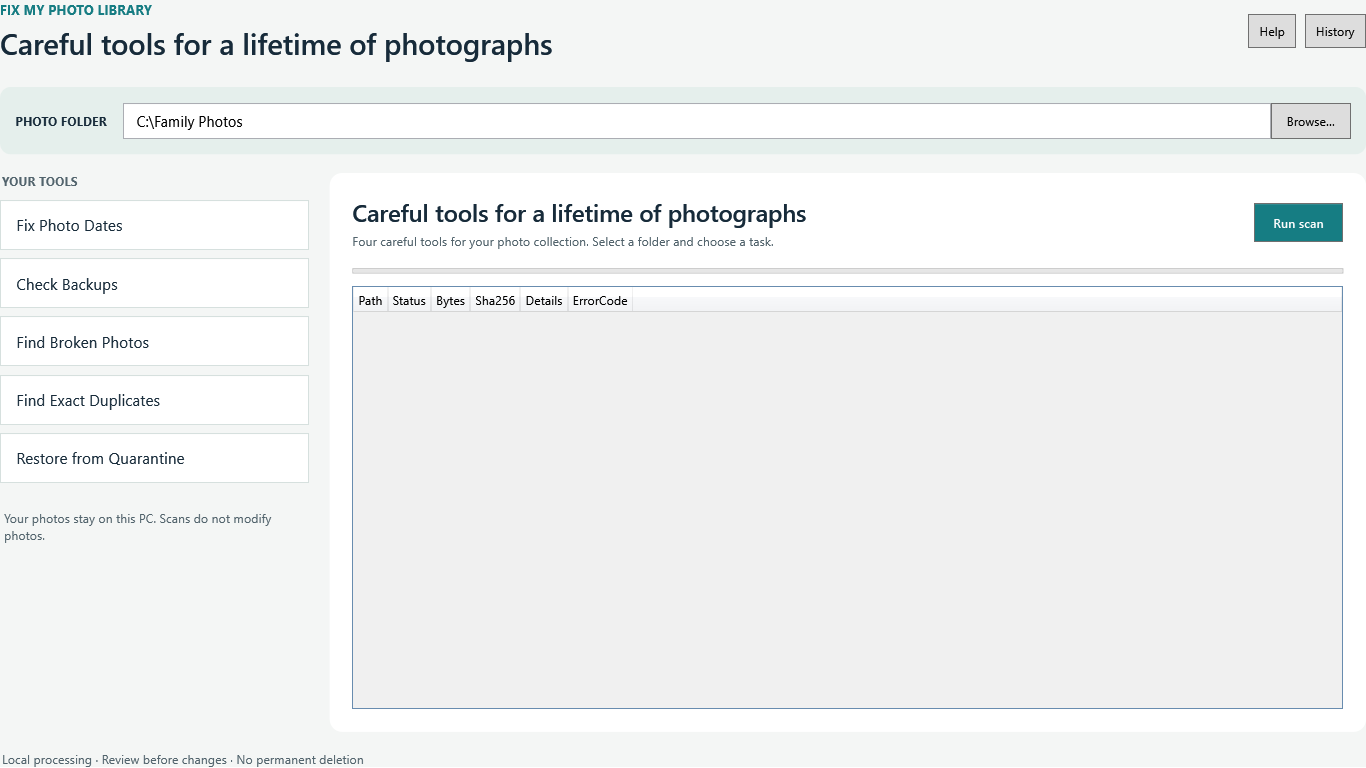
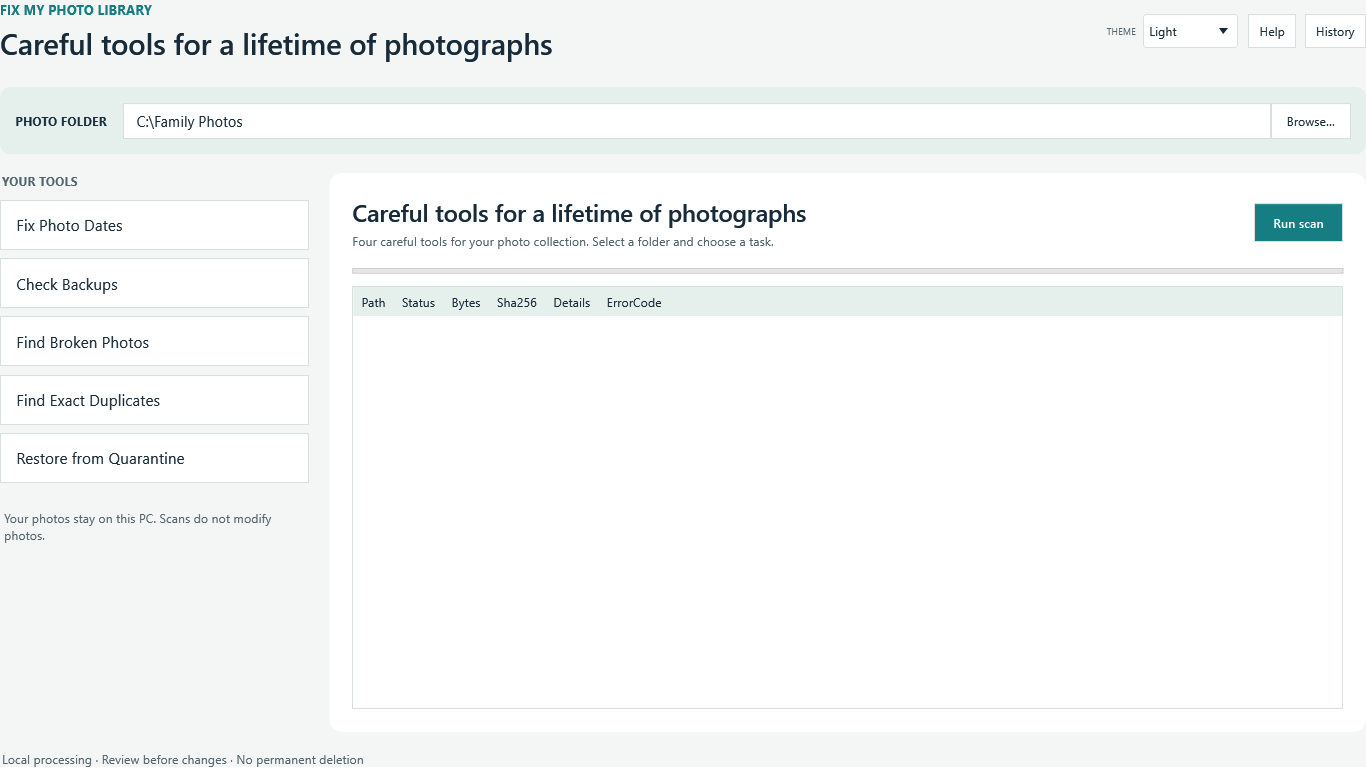
Publish Fix My Photo Library website

diff --git a/privacy/index.html b/privacy/index.html
@@ -2,20 +2,22 @@
 <html lang="en-GB">
 <head>
   <meta charset="utf-8"><meta name="viewport" content="width=device-width, initial-scale=1"><meta name="color-scheme" content="light"><meta name="theme-color" content="#f3f0e8">
-  <title>Local Processing & Privacy Summary | Fix My Photo Library</title>
-  <meta name="description" content="A plain-language summary of what Fix My Photo Library reads, what stays on your Windows PC, and where reports and recovery journals are stored.">
+  <title>App Privacy Notice | Fix My Photo Library</title>
+  <meta name="description" content="Read what Fix My Photo Library reads and stores locally, how photo paths and action logs are used, and how to clear history or exported reports.">
   <link rel="canonical" href="https://nikatsam.github.io/WINAPP_Fix_My_Photo_Library_Website/privacy/">
   <link rel="icon" type="image/svg+xml" href="../assets/favicon.svg"><link rel="stylesheet" href="../assets/site.css">
-  <script type="application/ld+json">{"@context":"https://schema.org","@type":"BreadcrumbList","itemListElement":[{"@type":"ListItem","position":1,"name":"Home","item":"https://nikatsam.github.io/WINAPP_Fix_My_Photo_Library_Website/"},{"@type":"ListItem","position":2,"name":"Privacy summary","item":"https://nikatsam.github.io/WINAPP_Fix_My_Photo_Library_Website/privacy/"}]}</script>
+  <script type="application/ld+json">{"@context":"https://schema.org","@type":"BreadcrumbList","itemListElement":[{"@type":"ListItem","position":1,"name":"Home","item":"https://nikatsam.github.io/WINAPP_Fix_My_Photo_Library_Website/"},{"@type":"ListItem","position":2,"name":"App privacy notice","item":"https://nikatsam.github.io/WINAPP_Fix_My_Photo_Library_Website/privacy/"}]}</script>
 </head>
 <body><a class="skip-link" href="#main">Skip to content</a><header class="site-header"><div class="header-inner"><a class="brand" href="../" aria-label="Fix My Photo Library home"><img src="../assets/favicon.svg" alt="" width="40" height="40"><span>FIX MY<br>PHOTO LIBRARY</span></a><button class="nav-toggle" type="button" aria-expanded="false" aria-controls="primary-nav"><span class="sr-only">Toggle navigation</span><span></span><span></span></button><nav class="primary-nav" id="primary-nav" aria-label="Main navigation"><a href="../#tools">The tools</a><a href="../#how-it-works">How it works</a><a href="../faq/">Photo library FAQs</a><a class="nav-cta" href="../#availability">Store listing: coming soon <span aria-hidden="true">↗</span></a></nav></div></header>
-<main id="main"><section class="page-hero section-wrap"><nav class="breadcrumbs" aria-label="Breadcrumb"><a href="../">Home</a><span aria-hidden="true">/</span><span aria-current="page">Privacy summary</span></nav><p class="eyebrow"><span class="eyebrow-dot"></span> Local-first by design</p><h1>Your photos stay<br><em>on your PC.</em></h1><p>This page is a plain-language product privacy summary for the current development build. It is not the final legal privacy notice; approved legal entity, contact and Store details will be added before release.</p></section>
-<section class="article-layout section-wrap"><article class="article-body"><p class="privacy-updated">Product behavior summary · 14 October 2026</p>
-  <h2 id="photo-data">What the app reads</h2><p>When you choose folders, the app enumerates supported photo files and reads file metadata or image bytes needed for the requested check. It uses SHA-256 for content comparisons and a Windows image decoder for supported-image checks. It may read EXIF capture-date fields to show a date preview.</p><p>Cloud/offline placeholders, inaccessible folders and reparse-point paths are not silently traversed. A scan that cannot finish is reported as incomplete.</p>
-  <h2 id="network">Network and uploads</h2><p>The app’s photo-processing code does not send photo content, filenames, hashes or reports to a remote service. It does not implement cloud storage or analytics. Windows, the Microsoft Store and other operating-system services may have their own network behavior unrelated to photo processing; those platform services are not controlled by this application.</p>
-  <h2 id="local-files">Reports, history and journals</h2><p>CSV and JSON reports are written only to a folder you select. The local job-history file stores summary counts and outcomes without photo paths. A separate local action journal retains paths and hashes needed for undo, quarantine recovery and restore. Clearing job history does not erase an action journal or a report you exported.</p><p>Date-corrected copies and quarantine files go to folders you select. Source images are not silently overwritten or permanently deleted by the duplicate workflow.</p>
-  <h2 id="control">Your choices</h2><p>You select the folders, review proposed changes and confirm copy or quarantine operations. You can clear the summary history in the app. To remove reports or action journals, use Windows File Explorer and the documented app-data location after the final release instructions are published.</p>
-  <h2 id="release-policy">Before the Store release</h2><p>This summary must be reviewed by the product owner and aligned with the final publisher identity, support contact, package behavior and Microsoft Store listing. The full legal policy and contact details will be published before the app is offered for purchase.</p>
-</article><aside class="article-aside"><h2>Privacy topics</h2><nav aria-label="Privacy sections"><a href="#photo-data">Photo data</a><a href="#network">Network behavior</a><a href="#local-files">Local reports</a><a href="#control">User control</a><a href="#release-policy">Release policy</a></nav></aside></section></main>
-<footer class="site-footer"><div class="footer-main section-wrap"><a class="brand brand-footer" href="../"><img src="../assets/favicon.svg" alt="" width="36" height="36"><span>FIX MY<br>PHOTO LIBRARY</span></a><p>Designed to keep photo work local and reviewable.</p><nav aria-label="Footer"><a href="../faq/">FAQs</a><a href="../guides/">Guides</a><a href="../">Home</a></nav></div><div class="footer-bottom section-wrap"><span>© 2026 Fix My Photo Library</span><span>Development-build summary; owner legal review pending.</span><a href="#main">Back to top ↑</a></div></footer><script src="../assets/site.js" defer></script>
+ <main id="main"><section class="page-hero section-wrap"><nav class="breadcrumbs" aria-label="Breadcrumb"><a href="../">Home</a><span aria-hidden="true">/</span><span aria-current="page">App privacy notice</span></nav><p class="eyebrow"><span class="eyebrow-dot"></span> Local-first by design</p><h1>Your photos stay<br><em>on your PC.</em></h1><p>This notice describes the current Windows app build: what it reads, what it writes locally, and how you can review or remove those local records. It applies to the app, not to Windows or Microsoft Store platform services.</p></section>
+<section class="article-layout section-wrap"><article class="article-body"><p class="privacy-updated">App privacy notice · reviewed 14 October 2026 · development release</p>
+  <h2 id="controller">Who is responsible</h2><p>Fix My Photo Library is currently a development product and is not yet offered for purchase. The legal publisher name and privacy contact must be completed by the product owner before a commercial Store release. No company identity or contact address is invented on this page.</p>
+  <h2 id="photo-data">Photo and file information processed</h2><p>When you choose folders, the app enumerates supported photo files and reads file content, file metadata and, for supported JPEGs, selected EXIF capture-date fields. SHA-256 hashes are calculated to compare byte-identical content and verify copies. Hashes, paths and timestamps are used to show scan results, complete safe copies, and support quarantine recovery or date-change undo.</p><p>Cloud/offline placeholders, inaccessible folders and reparse-point paths are not silently traversed. Files that change or cannot be read are reported as incomplete or unavailable rather than treated as verified.</p>
+  <h2 id="network">Uploads, analytics and advertising</h2><p>The app contains no photo-upload, cloud-storage, advertising or analytics feature. Photo content, filenames, hashes, reports and action details are not sent by the app to a developer-operated server. Internet access is not used for photo scanning or editing.</p><p>Windows and Microsoft Store may perform their own operating-system, licensing, account, purchase or update communications. Those are Microsoft platform services and are separate from the app’s local photo processing.</p>
+  <h2 id="local-files">Local history, activity log and settings</h2><p>Summary job history is stored in <code>%LOCALAPPDATA%\FixMyPhotoLibrary\history\jobs.jsonl</code>. It contains job IDs, tool names, timestamps, outcomes and counts without per-photo paths. The human-readable <code>activity.txt</code> in that folder records selected tools/folders, scan starts and outcomes, theme changes, report exports, and source-to-destination paths for copy, quarantine and restore actions. The app can open or export this TXT log.</p><p>The action journal is stored in <code>%LOCALAPPDATA%\FixMyPhotoLibrary\journal\actions.jsonl</code> and retains paths, hashes and old/new timestamps required to recover quarantined files or conditionally undo date changes. The selected appearance preference (System, Light or Dark) is stored locally in <code>%LOCALAPPDATA%\FixMyPhotoLibrary\settings.txt</code>.</p><p>CSV and JSON reports are written only to a destination you choose. Corrected-date copies and quarantine files are also written only to folders you select. They are not automatically uploaded.</p>
+  <h2 id="retention">Your controls and retention</h2><p>You choose folders, confirm mutating actions and can inspect or export the full TXT activity log from the app’s History screen. Clearing the job-summary list does not delete the activity log, action journal, quarantine manifest or reports. Those files can be removed by you in File Explorer after any recovery need has ended. You can set the app appearance to System, Light or Dark; deleting the setting returns it to System.</p>
+  <h2 id="website">This website</h2><p>The public product website is a static GitHub Pages site. It has no forms, analytics scripts, advertising pixels or third-party font/CDN requests. GitHub operates the hosting platform and may process standard web request logs under its own terms. This is separate from the Windows application’s local photo processing.</p>
+  <h2 id="contact">Contact and policy updates</h2><p>Before the Store listing is submitted, the owner must insert the legal publisher identity, privacy contact and any required regional disclosures, then review this notice against the final signed package and Store data declarations. The date and version of material changes will be updated here.</p>
+</article><aside class="article-aside"><h2>Privacy topics</h2><nav aria-label="Privacy sections"><a href="#controller">Data controller</a><a href="#photo-data">Photo data</a><a href="#network">Network behavior</a><a href="#local-files">Logs and settings</a><a href="#retention">User controls</a><a href="#website">Website</a><a href="#contact">Contact</a></nav></aside></section></main>
+<footer class="site-footer"><div class="footer-main section-wrap"><a class="brand brand-footer" href="../"><img src="../assets/favicon.svg" alt="" width="36" height="36"><span>FIX MY<br>PHOTO LIBRARY</span></a><p>Designed to keep photo work local and reviewable.</p><nav aria-label="Footer"><a href="../faq/">FAQs</a><a href="../guides/">Guides</a><a href="../">Home</a></nav></div><div class="footer-bottom section-wrap"><span>© 2026 Fix My Photo Library</span><span>Legal publisher contact details require owner completion before Store release.</span><a href="#main">Back to top ↑</a></div></footer><script src="../assets/site.js" defer></script>
 </body></html>

diff --git a/faq/index.html b/faq/index.html
@@ -16,7 +16,9 @@
       {"@type":"Question","name":"Can Windows tell whether a JPEG or PNG is damaged?","acceptedAnswer":{"@type":"Answer","text":"A decoder can identify some files it cannot fully read, but that does not reconstruct lost pixels. The app checks supported Windows codecs, validates PNG structure and distinguishes failed decoding, resource limits and unavailable codecs."}},
       {"@type":"Question","name":"Why is a photo's camera date different from its Windows file date?","acceptedAnswer":{"@type":"Answer","text":"EXIF capture time and Windows Created or Modified timestamps are different values. Camera dates can also lack a timezone offset. The app previews embedded evidence, does not guess a missing offset, and creates corrected copies without rewriting the original EXIF."}},
       {"@type":"Question","name":"Are my selected photos uploaded to a cloud service?","acceptedAnswer":{"@type":"Answer","text":"The app's photo scans, hashes, image checks and file operations run locally on the Windows PC. It does not upload photo contents to a service. Reports are written only to a folder the user chooses."}},
-      {"@type":"Question","name":"Does the app support every RAW, HEIC or animated image format?","acceptedAnswer":{"@type":"Answer","text":"No. Image checks depend on codecs available on Windows and use a bounded pixel budget. Unsupported codecs and resource-limited images are reported separately from damaged files."}}
+      {"@type":"Question","name":"Does the app support every RAW, HEIC or animated image format?","acceptedAnswer":{"@type":"Answer","text":"No. Image checks depend on codecs available on Windows and use a bounded pixel budget. Unsupported codecs and resource-limited images are reported separately from damaged files."}},
+      {"@type":"Question","name":"Can I review a text log of actions the app took?","acceptedAnswer":{"@type":"Answer","text":"Yes. The History screen shows recent job summaries and opens or exports a local activity.txt log with timestamps, outcomes, counts and paths for copy, quarantine, restore and report-export actions. Clearing job summaries does not delete the text log or recovery journal."}},
+      {"@type":"Question","name":"Can I choose a dark or light app theme?","acceptedAnswer":{"@type":"Answer","text":"Yes. Choose System, Light or Dark in the app header. The preference is stored locally and Windows high-contrast colors take precedence for accessibility."}}
     ]}]}
   </script>
 </head>
@@ -35,10 +37,12 @@
           <details class="qa-item" id="privacy"><summary><h2>Are selected photos uploaded or sent to a cloud service?</h2></summary><div class="qa-answer"><p>No photo contents are uploaded by the app. Scans, hashes, decoding, copies and quarantine operations are performed locally. Reports are saved only in the folder you choose. Job history stores a local summary; action journals retain file paths needed for recovery.</p><p>See the <a href="../privacy/">local-processing privacy summary</a>. Microsoft Store licensing and Windows platform services are separate from photo processing.</p></div></details>
           <details class="qa-item" id="formats"><summary><h2>Does it support every RAW, HEIC, WebP or animated photo format?</h2></summary><div class="qa-answer"><p>No. Image inspection depends on codecs installed on that Windows PC. Animated frames are checked within a fixed aggregate pixel budget. If a codec is unavailable or a file exceeds the decode limit, the app reports that separately from a failed supported-format decode.</p><p>Install codecs only from a source you trust. The app does not download a codec or upload the photo to inspect it.</p></div></details>
           <details class="qa-item" id="partial-backup"><summary><h2>What should I do if the backup report says “incomplete”?</h2></summary><div class="qa-answer"><p>Do not treat an incomplete scan as verified. Review access-denied, missing, changed-during-scan and cloud-placeholder rows. Make the source and backup available, then run the check again. The app can offer to copy content it confirmed missing, but it rechecks source hashes and never overwrites an existing file.</p></div></details>
+          <details class="qa-item" id="action-log"><summary><h2>Can I review a text log of actions the app took?</h2></summary><div class="qa-answer"><p>Yes. History shows recent job summaries and opens or exports a local <code>activity.txt</code> log with timestamps, outcomes, counts and paths for copy, quarantine, restore and report-export actions. Clearing job summaries does not delete the text log or recovery journal.</p></div></details>
+          <details class="qa-item" id="app-theme"><summary><h2>Can I choose a dark or light app theme?</h2></summary><div class="qa-answer"><p>Yes. Choose System, Light or Dark in the app header. The preference is stored locally; Windows high-contrast colors take precedence.</p></div></details>
         </div>
         <div class="page-cta"><h2>Want the detailed steps?</h2><p>Read the guides for <a href="../guides/verify-photo-backup/">hash-based backup checks</a>, <a href="../guides/find-duplicate-photos/">reversible duplicate review</a> and <a href="../guides/fix-photo-dates/">EXIF dates and timezone offsets</a>.</p></div>
       </article>
-      <aside class="article-aside"><h2>On this page</h2><nav aria-label="FAQ topics"><a href="#backup-content">Backup verification</a><a href="#safe-duplicates">Exact duplicates</a><a href="#broken-photo">Broken-image checks</a><a href="#camera-dates">Camera dates</a><a href="#privacy">Privacy</a><a href="#formats">Image formats</a><a href="#partial-backup">Incomplete scans</a></nav></aside>
+      <aside class="article-aside"><h2>On this page</h2><nav aria-label="FAQ topics"><a href="#backup-content">Backup verification</a><a href="#safe-duplicates">Exact duplicates</a><a href="#broken-photo">Broken-image checks</a><a href="#camera-dates">Camera dates</a><a href="#privacy">Privacy</a><a href="#formats">Image formats</a><a href="#partial-backup">Incomplete scans</a><a href="#action-log">Activity log</a><a href="#app-theme">App theme</a></nav></aside>
     </section>
   </main>
   <footer class="site-footer"><div class="footer-main section-wrap"><a class="brand brand-footer" href="../"><img src="../assets/favicon.svg" alt="" width="36" height="36"><span>FIX MY<br>PHOTO LIBRARY</span></a><p>Answers based on the current application behavior.<br>Store release and listing are still pending.</p><nav aria-label="Footer"><a href="../">Home</a><a href="../privacy/">Privacy</a><a href="../guides/verify-photo-backup/">Backup guide</a></nav></div><div class="footer-bottom section-wrap"><span>© 2026 Fix My Photo Library</span><span>Product status: not yet available in Microsoft Store.</span><a href="#main">Back to top ↑</a></div></footer>

diff --git a/index.html b/index.html
@@ -131,6 +131,9 @@
         <figure class="gallery-large reveal"><button class="image-expand" type="button" data-image-preview data-preview-caption="Image health example · generated fixture data" aria-label="Expand image health screenshot"><img src="assets/screenshots/03-photo-health.png" alt="Fix My Photo Library sample image check distinguishing healthy, decoding-failed and unsupported-codec files" width="1366" height="768" loading="lazy"><span class="expand-cue" aria-hidden="true">Expand image ↗</span></button><figcaption><b>Image health</b><span>Healthy, damaged and unsupported are different outcomes.</span></figcaption></figure>
         <figure class="gallery-small reveal reveal-late"><button class="image-expand" type="button" data-image-preview data-preview-caption="Exact duplicate review example · generated fixture data" aria-label="Expand exact duplicates screenshot"><img src="assets/screenshots/04-exact-duplicates.png" alt="Fix My Photo Library sample exact-duplicate group with a keeper available for review" width="1366" height="768" loading="lazy"><span class="expand-cue" aria-hidden="true">Expand image ↗</span></button><figcaption><b>Keeper review</b><span>You pin the copy that stays.</span></figcaption></figure>
         <figure class="gallery-small reveal"><button class="image-expand" type="button" data-image-preview data-preview-caption="Camera date review example · generated fixture data" aria-label="Expand photo date screenshot"><img src="assets/screenshots/05-date-review.png" alt="Fix My Photo Library sample camera-date preview showing an explicit timezone offset and a date requiring review" width="1366" height="768" loading="lazy"><span class="expand-cue" aria-hidden="true">Expand image ↗</span></button><figcaption><b>Date evidence</b><span>Offsets are visible. Missing zones are not guessed.</span></figcaption></figure>
+        <figure class="gallery-small reveal reveal-late"><button class="image-expand" type="button" data-image-preview data-preview-caption="In-app safety and workflow help" aria-label="Expand in-app Help and Safety Guide screenshot"><img src="assets/screenshots/06-in-app-help.png" alt="Fix My Photo Library in-app Help and Safety Guide with topics for backups, duplicates, dates, image checks and logs" width="1366" height="768" loading="lazy"><span class="expand-cue" aria-hidden="true">Expand image ↗</span></button><figcaption><b>Help in the app</b><span>Understand results and safe steps without leaving the tool.</span></figcaption></figure>
+        <figure class="gallery-small reveal"><button class="image-expand" type="button" data-image-preview data-preview-caption="Activity history example · synthetic paths" aria-label="Expand activity log screenshot"><img src="assets/screenshots/07-activity-log.png" alt="Fix My Photo Library History and Activity Log with synthetic job summaries, TXT activity and example source-to-quarantine paths" width="1366" height="768" loading="lazy"><span class="expand-cue" aria-hidden="true">Expand image ↗</span></button><figcaption><b>Review the activity</b><span>Job summaries plus a readable, exportable TXT action log.</span></figcaption></figure>
+        <figure class="gallery-small reveal reveal-late"><button class="image-expand" type="button" data-image-preview data-preview-caption="Dark theme example · generated fixture data" aria-label="Expand dark theme screenshot"><img src="assets/screenshots/08-dark-theme.png" alt="Fix My Photo Library date review in the user-selectable dark theme, showing timezone evidence" width="1366" height="768" loading="lazy"><span class="expand-cue" aria-hidden="true">Expand image ↗</span></button><figcaption><b>Choose your theme</b><span>System, Light or Dark, with high-contrast colors respected.</span></figcaption></figure>
       </div>
     </section>
 
